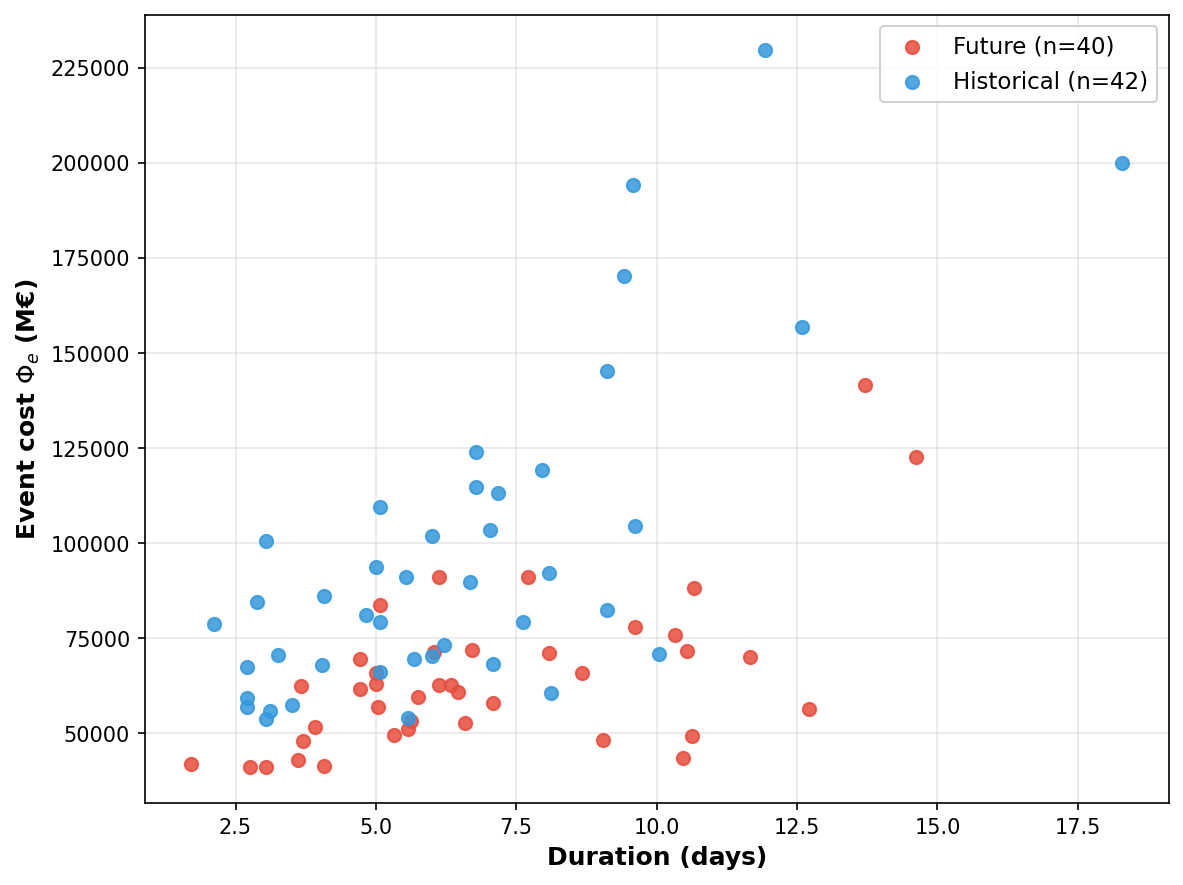
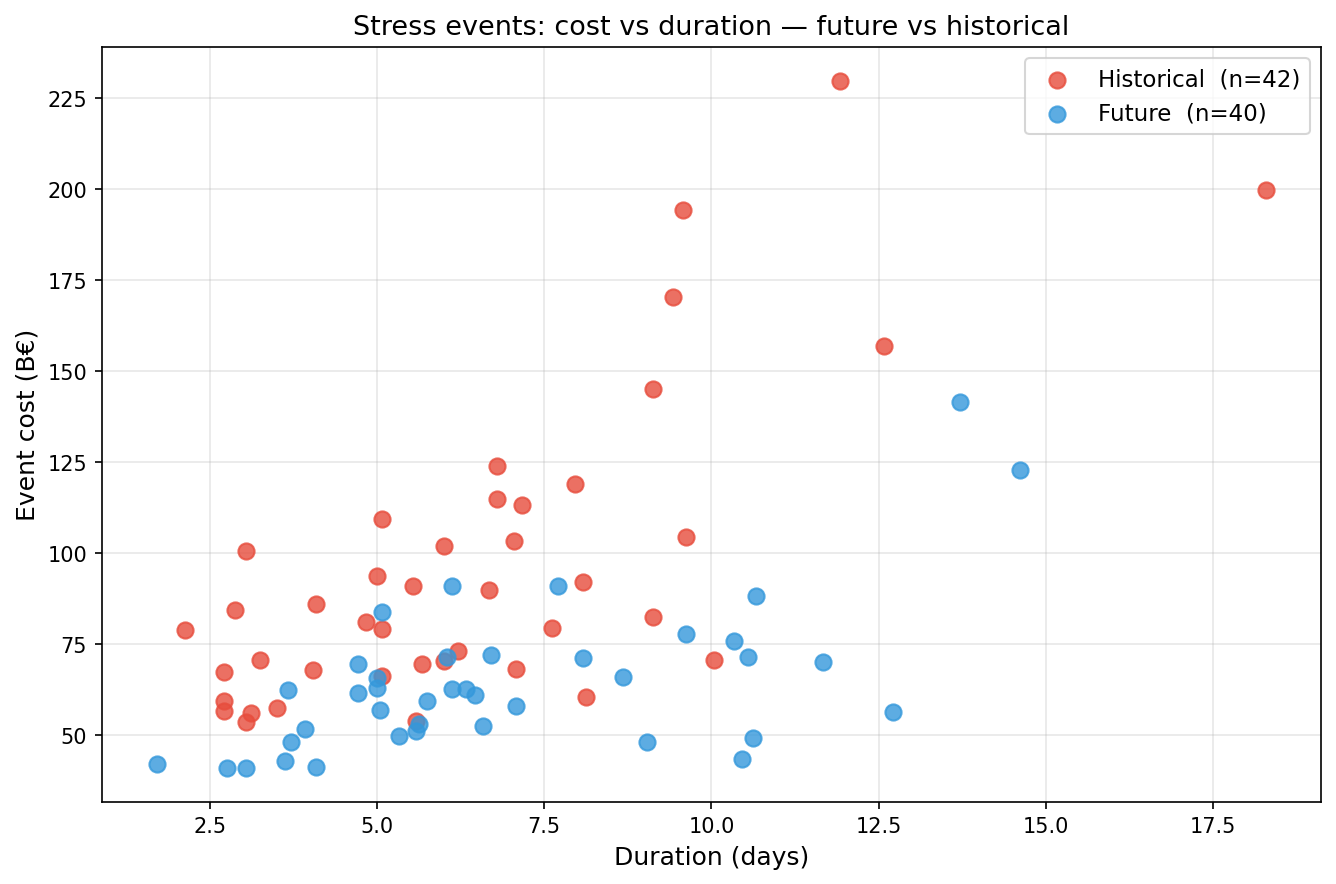
Add plot_scatter_fut_vs_hist.py and regenerate scatter_fut_vs_hist.png

diff --git a/analysis/codigos/compute/plot_scatter_fut_vs_hist.py b/analysis/codigos/compute/plot_scatter_fut_vs_hist.py
@@ -1,0 +1,60 @@
+"""
+Scatter Plot — Event Cost vs Duration (Future vs Historical)
+=============================================================
+Static scatter plot comparing stress events from both datasets on the
+event_cost vs duration_days plane. Each point is one stress event; color
+indicates dataset (future = blue, historical = red).
+
+Only events passing the standard quality filters are included:
+  cost_share_cross >= 0.2%  AND  duration_days >= 1.0
+
+Inputs:
+  CSVs/future/events_global_alpha/events_global_alpha25.csv
+  CSVs/historical/events_global_alpha/events_global_historical_alpha25.csv
+
+Output:
+  analysis/fotos/scatter_fut_vs_hist.png
+"""
+
+# ── Configuration ─────────────────────────────────────────────────────────────
+FUT_CSV  = '~/Desktop/Bachelor Thesis/CSVs/future/events_global_alpha/events_global_alpha25.csv'
+HIST_CSV = '~/Desktop/Bachelor Thesis/CSVs/historical/events_global_alpha/events_global_historical_alpha25.csv'
+OUT      = '~/Desktop/Bachelor Thesis/analysis/fotos/scatter_fut_vs_hist.png'
+THRESH_CS  = 0.2
+THRESH_DUR = 1.0
+# ──────────────────────────────────────────────────────────────────────────────
+
+import os
+import pandas as pd
+import matplotlib
+matplotlib.use('Agg')
+import matplotlib.pyplot as plt
+
+FUT_CSV  = os.path.expanduser(FUT_CSV)
+HIST_CSV = os.path.expanduser(HIST_CSV)
+OUT      = os.path.expanduser(OUT)
+
+def load_filtered(path):
+    df = pd.read_csv(path)
+    return df[(df['cost_share_cross'] >= THRESH_CS) & (df['duration_days'] >= THRESH_DUR)]
+
+fut  = load_filtered(FUT_CSV)
+hist = load_filtered(HIST_CSV)
+
+fig, ax = plt.subplots(figsize=(9, 6))
+
+ax.scatter(hist['duration_days'], hist['event_cost'] / 1e3,
+           color='#e74c3c', s=60, alpha=0.8, label=f'Historical  (n={len(hist)})', zorder=3)
+ax.scatter(fut['duration_days'],  fut['event_cost']  / 1e3,
+           color='#3498db', s=60, alpha=0.8, label=f'Future  (n={len(fut)})',      zorder=3)
+
+ax.set_xlabel('Duration (days)', fontsize=12)
+ax.set_ylabel('Event cost (B€)', fontsize=12)
+ax.set_title('Stress events: cost vs duration — future vs historical', fontsize=13)
+ax.legend(fontsize=11, frameon=True)
+ax.grid(True, alpha=0.3)
+
+fig.tight_layout()
+fig.savefig(OUT, dpi=150, bbox_inches='tight')
+plt.close()
+print(f'Saved: {OUT}')
